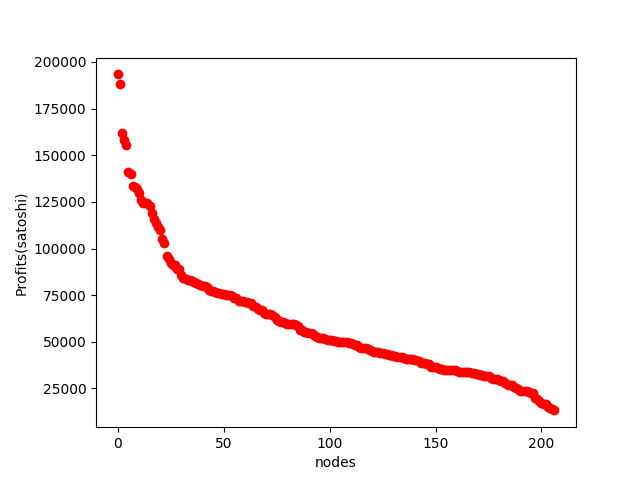
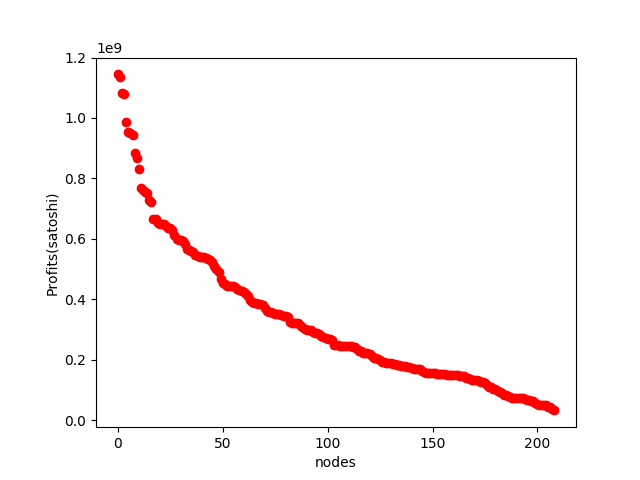
weeks, re-sized all numbers

diff --git a/src/attachment_strategies.py b/src/attachment_strategies.py
@@ -21,7 +21,7 @@ def create_channel(node, destination, public):
 		'fee_per_millionth': prop,
 		'active': True,
 
-		'last_10_fees': [n / (node["original_funding"]/5000) for n in node["profits"]],
+		'last_10_fees': [n * (node["allocation_strategy"]/node["original_funding"]) for n in node["profits"]],
 
 		#'last_update': 1550232803,
 		#'delay': 144,
@@ -40,7 +40,7 @@ def attach(g, n, m, env):
 
 def barabasi_albert(g, n, m, env):
 
-		if m >= len(g.edges):
+		if m >= len([k for k in g.edges if g.edges[k]["public"]]):
 			random_strategy(g, n, m, env)
 			return False
 
@@ -167,10 +167,10 @@ def manage_channels(g, env, day):
 		if g.get_edge_data(e[0], e[1])["satoshis"] == 0:
 			close.append((e[0], e[1]))
 		elif g.nodes[e[0]]["timing_strategy"]["name"] == "close_avg_bankruptcy":
-			if sum(g.get_edge_data(e[0], e[1])["last_10_fees"]) / g.get_edge_data(e[0], e[1])["satoshis"] < env["environment"]["bankruptcy"] / g.nodes[e[0]]["original_funding"]:
+			if sum(g.get_edge_data(e[0], e[1])["last_10_fees"]) / g.get_edge_data(e[0], e[1])["satoshis"] < get_bankruptcy(g.nodes[e[0]], env) / g.nodes[e[0]]["original_funding"]:
 				close.append((e[0], e[1]))
 		else:
-			if sum(g.get_edge_data(e[0], e[1])["last_10_fees"]) / g.get_edge_data(e[0], e[1])["satoshis"] < env["environment"]["bankruptcy"] / g.nodes[e[0]]["original_funding"] * g.nodes[e[0]]["timing_strategy"]["scale"]:
+			if sum(g.get_edge_data(e[0], e[1])["last_10_fees"]) / g.get_edge_data(e[0], e[1])["satoshis"] < get_bankruptcy(g.nodes[e[0]], env) / g.nodes[e[0]]["original_funding"] * g.nodes[e[0]]["timing_strategy"]["scale"]:
 				close.append((e[0], e[1]))
 
 	for f, s in close:
@@ -183,6 +183,11 @@ def manage_channels(g, env, day):
 			remove_profit(g, n, 2*env['environment']['fee'], day)
 
 	return True
+
+
+def get_bankruptcy(node, env):
+
+	return node['original_funding'] / 2 + node['original_funding'] * env["environment"]["risk_premium"] / 36.5 + node['original_funding'] * env["environment"]["risk_premium"] / 36.5 + env["environment"]["operational_cost"] / 36.5
 
 
 def remove_profit(g, node, fee, day):

diff --git a/src/simulation.py b/src/simulation.py
@@ -86,7 +86,7 @@ def simulate(env):
 		add_survival_history(g, history, day)
 		reset_day(g, day)
 		for j in range(env['environment']['payments_per_step']):
-			route_payments_all_to_all(g, day)
+			route_payments_all_to_all(g, env, day)
 
 		network_probability_node_creation(g, env, day)
 		check_for_bankruptcy(g, env)
@@ -137,9 +137,13 @@ def add_survival_history(g, history, day):
 			history[g.nodes[n]['name']][day] += 1
 
 
-def route_payments_all_to_all(g, day):
+def route_payments_all_to_all(g, env, day):
 
-	size = random.randint(1, 100)  # TODO set to sensible value
+	if env["environment"]["payment_distribution"]["type"] == "random":
+		size = random.randint(env["environment"]["payment_distribution"]["interval"]["low"],
+				env["environment"]["payment_distribution"]["interval"]["high"])
+	else:
+		size = random.randint(1, 100)
 
 	source = 0
 	dest = 0

diff --git a/src/rebalancing_strategies.py b/src/rebalancing_strategies.py
@@ -27,12 +27,14 @@ def rebalance_channels(g, day):
 
 				fee = get_fee(g, cycle, size)
 
+				print((size * 2 / fee))
+
 				if (size * 2 / fee) > g.nodes[n]["rebalance_strategy"]["ratio"]:
 					print("HAPPENED")
 					simulation.offset_liquidity(g, cycle, size)
-					cycle.remove(source)
+					cycle.remove(cycle[0])
 					simulation.pay_routers(g, cycle, day, size)
-					remove_fee(g, n, fee, day)
+					remove_profit(g, n, fee, day)
 
 	return True
 
@@ -128,7 +130,7 @@ def get_fee(g, route, size):
 	fee = 0
 	for n in route:
 		if previous is not None:
-			fee = fee + g.get_edge_data(previous, n)["base_fee_millisatoshi"] + (g.get_edge_data(previous, n)["fee_per_millionth"]*size)
+			fee = fee + g.get_edge_data(previous, n)["base_fee_millisatoshi"]/1000 + (g.get_edge_data(previous, n)["fee_per_millionth"]*size/1000000)
 		previous = n
 
 	return fee

diff --git a/docs/logs/week11.md b/docs/logs/week11.md
@@ -1,0 +1,24 @@
+
+# Done
+
+* Implemented timing aggressiveness. Both linear and exponential from middle. 
+* Implemented funding strategy.
+* Implemented allocation strategy.
+* Implemented anti-barabasi attachment function.
+* Implemented hassan et. al. attachment function.
+
+* Started rebalance code on real network.
+* Plugin pull request fix.
+
+# Problem
+
+Seem to be going to done with most things sufficiently to have good margin. Have created a list with everything
+left implementation wise. Will most likely have finished most of it next week. Will be interesting to see what happens
+with pull request and what I can contribute with.
+
+# Do
+
+* Private nodes
+* Robustness
+* Shortest path
+* Scaling bitcoin chapter

diff --git a/docs/logs/week12.md b/docs/logs/week12.md
@@ -1,0 +1,22 @@
+
+# Done
+
+* Implemented private/non advertised node option.
+* Finished scaling Bitcoin chapter.
+* Finished mixture problem.
+* Wrote piece on non advertised nodes.
+* Robustness implemented, validated on mainnet.
+* Shortest path metric implemented
+* Fixed report for peer review
+
+# Problem
+
+Finished most necessary for simulation. Will add a few extra things and then start generating results.
+Will have a meeting next friday discussing interesting setups to try simulating.
+
+# Do
+
+* Reed others peer review.
+* Fix the feedback I will receive.
+* Fix proportions.
+* Add mixing strategies.

diff --git a/docs/logs/week13.md b/docs/logs/week13.md
@@ -1,0 +1,11 @@
+# Done
+
+* proof-read other peers report.
+
+
+# Problem
+
+
+
+# Do
+
